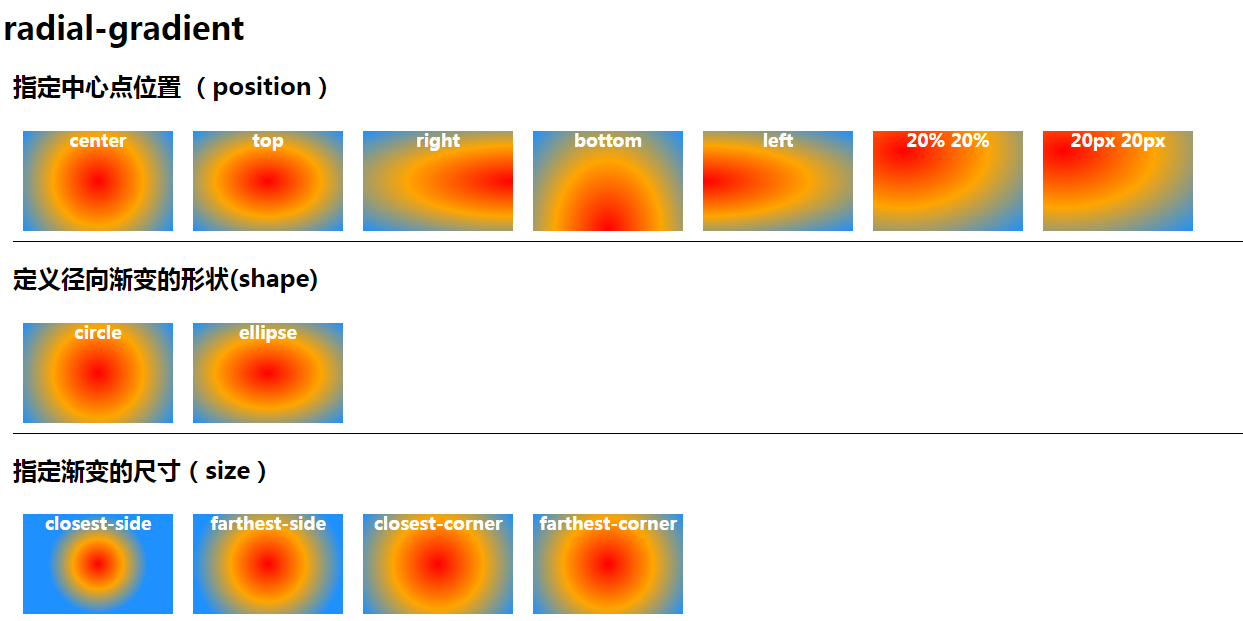
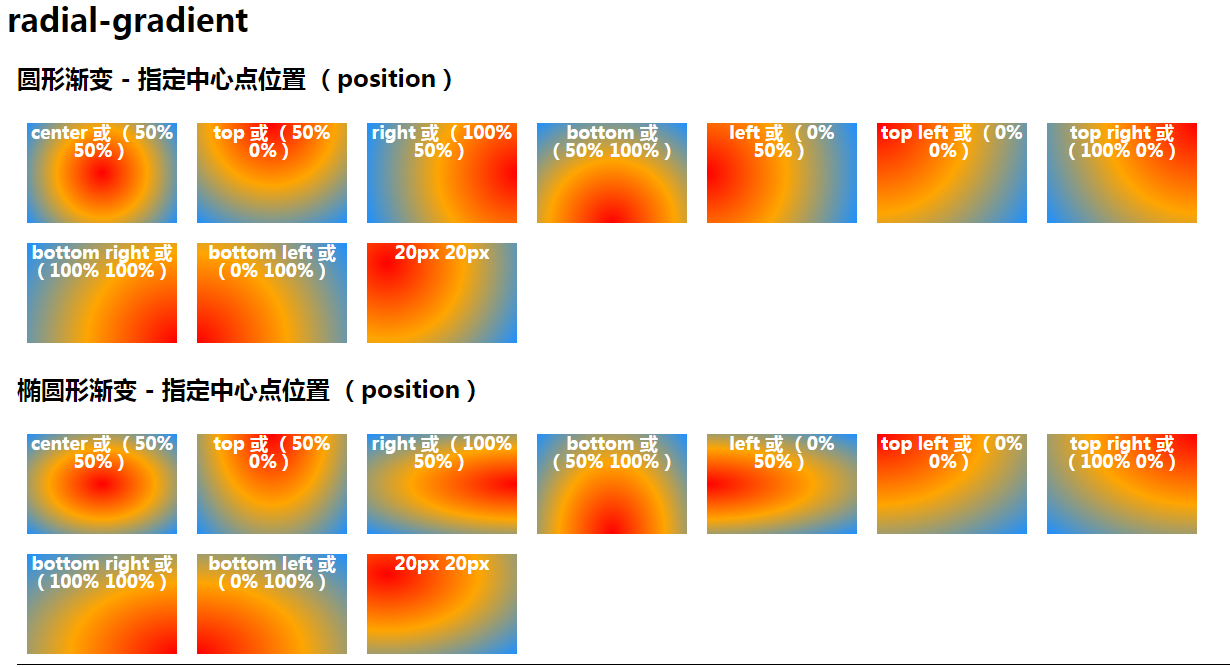
finish

diff --git a/effects/demo/css/gradient/demo2/style.css b/effects/demo/css/gradient/demo2/style.css
@@ -25,49 +25,104 @@
 }
 
 
-/* 定义径向渐变的圆心位置（指定中心点位置） <position> */
-.position .content:nth-of-type(1){
+/* 圆形渐变 - 指定中心点位置 （position) */
+.circle-position .content:nth-of-type(1){
+    background: radial-gradient(circle at center, red,orange, rgb(30, 144, 255));
+}
+.circle-position .content:nth-of-type(2){
+    background: radial-gradient(circle at top, red,orange, rgb(30, 144, 255));
+}
+.circle-position .content:nth-of-type(3){
+    background: radial-gradient(circle at right, red,orange, rgb(30, 144, 255));
+}
+.circle-position .content:nth-of-type(4){
+    background: radial-gradient(circle at bottom, red,orange, rgb(30, 144, 255));
+}
+.circle-position .content:nth-of-type(5){
+    background: radial-gradient(circle at left, red,orange, rgb(30, 144, 255));
+}
+.circle-position .content:nth-of-type(6){
+    background: radial-gradient(circle at top left, red,orange, rgb(30, 144, 255));
+}
+.circle-position .content:nth-of-type(7){
+    background: radial-gradient(circle at top right, red,orange, rgb(30, 144, 255));
+}
+.circle-position .content:nth-of-type(8){
+    background: radial-gradient(circle at bottom right, red,orange, rgb(30, 144, 255));
+}
+.circle-position .content:nth-of-type(9){
+    background: radial-gradient(circle at bottom left, red,orange, rgb(30, 144, 255));
+}
+.circle-position .content:nth-of-type(10){
+    background: radial-gradient(circle at 20px 20px, red,orange, rgb(30, 144, 255));
+}
+
+/* 椭圆形渐变 - 指定中心点位置 （position） */
+.ellipse-position .content:nth-of-type(1){
     background: radial-gradient(at center, red,orange, rgb(30, 144, 255));
 }
-.position .content:nth-of-type(2){
+.ellipse-position .content:nth-of-type(2){
     background: radial-gradient(at top, red,orange, rgb(30, 144, 255));
 }
-.position .content:nth-of-type(3){
+.ellipse-position .content:nth-of-type(3){
     background: radial-gradient(at right, red,orange, rgb(30, 144, 255));
 }
-.position .content:nth-of-type(4){
+.ellipse-position .content:nth-of-type(4){
     background: radial-gradient(at bottom, red,orange, rgb(30, 144, 255));
 }
-.position .content:nth-of-type(5){
+.ellipse-position .content:nth-of-type(5){
     background: radial-gradient(at left, red,orange, rgb(30, 144, 255));
 }
-.position .content:nth-of-type(6){
-    background: radial-gradient(at 20% 20%, red,orange, rgb(30, 144, 255));
+.ellipse-position .content:nth-of-type(6){
+    background: radial-gradient(at top left, red,orange, rgb(30, 144, 255));
 }
-.position .content:nth-of-type(7){
+.ellipse-position .content:nth-of-type(7){
+    background: radial-gradient(at top right, red,orange, rgb(30, 144, 255));
+}
+.ellipse-position .content:nth-of-type(8){
+    background: radial-gradient(at bottom right, red,orange, rgb(30, 144, 255));
+}
+.ellipse-position .content:nth-of-type(9){
+    background: radial-gradient(at bottom left, red,orange, rgb(30, 144, 255));
+}
+.ellipse-position .content:nth-of-type(10){
     background: radial-gradient(at 20px 20px, red,orange, rgb(30, 144, 255));
 }
 
 /* 定义径向渐变的形状(shape) */
-.position .content:nth-of-type(1){
+.shape .content:nth-of-type(1){
     background: radial-gradient(circle, red,orange, rgb(30, 144, 255));
 }
-.position .content:nth-of-type(2){
+.shape .content:nth-of-type(2){
     background: radial-gradient(ellipse, red,orange, rgb(30, 144, 255));
 }
 
-/* 指定渐变的尺寸（size） */
-.size .content:nth-of-type(1){
-    background: radial-gradient(circle  closest-side, red,orange, rgb(30, 144, 255));
+/*圆形渐变 - 指定渐变的尺寸（size）*/
+.circle-size .content:nth-of-type(1){
+    background: radial-gradient(circle  closest-side at 50% 75%, red,orange, rgb(30, 144, 255));
 }
-.size .content:nth-of-type(2){
-    background: radial-gradient(circle  farthest-side, red,orange, rgb(30, 144, 255));
+.circle-size .content:nth-of-type(2){
+    background: radial-gradient(circle  farthest-side at 50% 75%, red,orange, rgb(30, 144, 255));
 }
-.size .content:nth-of-type(3){
-    background: radial-gradient(circle  closest-corner, red,orange, rgb(30, 144, 255));
+.circle-size .content:nth-of-type(3){
+    background: radial-gradient(circle  closest-corner at 50% 75%, red,orange, rgb(30, 144, 255));
 }
-.size .content:nth-of-type(4){
-    background: radial-gradient(circle  farthest-corner, red,orange, rgb(30, 144, 255));
+.circle-size .content:nth-of-type(4){
+    background: radial-gradient(circle  farthest-corner at 50% 75%, red,orange, rgb(30, 144, 255));
+}
+
+/*椭圆形渐变 - 指定渐变的尺寸（size）*/
+.ellipse-size .content:nth-of-type(1){
+    background: radial-gradient(closest-side at 50% 75%, red,orange, rgb(30, 144, 255));
+}
+.ellipse-size .content:nth-of-type(2){
+    background: radial-gradient(farthest-side at 50% 75%, red,orange, rgb(30, 144, 255));
+}
+.ellipse-size .content:nth-of-type(3){
+    background: radial-gradient(closest-corner at 50% 75%, red,orange, rgb(30, 144, 255));
+}
+.ellipse-size .content:nth-of-type(4){
+    background: radial-gradient(farthest-corner at 50% 75%, red,orange, rgb(30, 144, 255));
 }
 
 /* 重复的径向渐变 */

diff --git a/effects/demo/css/gradient/demo2/index.html b/effects/demo/css/gradient/demo2/index.html
@@ -9,29 +9,52 @@
 <h1>radial-gradient</h1>
 
 <div class="container">
-    <h2> 指定中心点位置 （position） </h2>
-    <div class="container-wrap position">
-        <div class="content">center</div>
-        <div class="content">top</div>
-        <div class="content">right</div>
-        <div class="content">bottom</div>
-        <div class="content">left</div>
-        <div class="content">20% 20%</div>
+    <h2> 圆形渐变 - 指定中心点位置 （position） </h2>
+    <div class="container-wrap circle-position">
+        <div class="content">center 或 （50% 50%）</div>
+        <div class="content">top 或 （50% 0%）</div>
+        <div class="content">right 或 （100% 50%）</div>
+        <div class="content">bottom 或 （50% 100%）</div>
+        <div class="content">left 或 （0% 50%）</div>
+        <div class="content">top left 或 （0% 0%）</div>
+        <div class="content">top right 或 （100% 0%）</div>
+        <div class="content">bottom right 或 （100% 100%）</div>
+        <div class="content">bottom left 或 （0% 100%）</div>
+        <div class="content">20px 20px</div>
+    </div>
+    <h2> 椭圆形渐变 - 指定中心点位置 （position） </h2>
+    <div class="container-wrap ellipse-position">
+        <div class="content">center 或 （50% 50%）</div>
+        <div class="content">top 或 （50% 0%）</div>
+        <div class="content">right 或 （100% 50%）</div>
+        <div class="content">bottom 或 （50% 100%）</div>
+        <div class="content">left 或 （0% 50%）</div>
+        <div class="content">top left 或 （0% 0%）</div>
+        <div class="content">top right 或 （100% 0%）</div>
+        <div class="content">bottom right 或 （100% 100%）</div>
+        <div class="content">bottom left 或 （0% 100%）</div>
         <div class="content">20px 20px</div>
     </div>
 </div>
 
 <div class="container">
     <h2> 定义径向渐变的形状(shape) </h2>
-    <div class="container-wrap position">
+    <div class="container-wrap shape">
         <div class="content">circle </div>
         <div class="content">ellipse</div>
     </div>
 </div>
 
 <div class="container">
-    <h2>指定渐变的尺寸（size）</h2>
-    <div class="container-wrap size">
+    <h2> 圆形渐变 - 指定渐变的尺寸（size）</h2>
+    <div class="container-wrap circle-size">
+        <div class="content">closest-side</div>
+        <div class="content">farthest-side</div>
+        <div class="content">closest-corner</div>
+        <div class="content">farthest-corner</div>
+    </div>
+    <h2> 椭圆形渐变 - 指定渐变的尺寸（size）</h2>
+    <div class="container-wrap ellipse-size">
         <div class="content">closest-side</div>
         <div class="content">farthest-side</div>
         <div class="content">closest-corner</div>

diff --git a/_posts/studynote/css/2017-11-14-css-radial-gradient.md b/_posts/studynote/css/2017-11-14-css-radial-gradient.md
@@ -13,7 +13,7 @@ tag: CSS
 
 ## 一、径向渐变总结图
 
-![gradient](/styles/images/css/gradient/gradient-10     .png)
+![gradient](/styles/images/css/gradient/gradient-10.png)
 
 ## 二、浏览器兼容性
 
@@ -38,4 +38,6 @@ tag: CSS
 ![gradient](/styles/images/css/gradient/gradient-11.png)
 
 ![gradient](/styles/images/css/gradient/gradient-12.png)
+
+![gradient](/styles/images/css/gradient/gradient-16.png)
 
